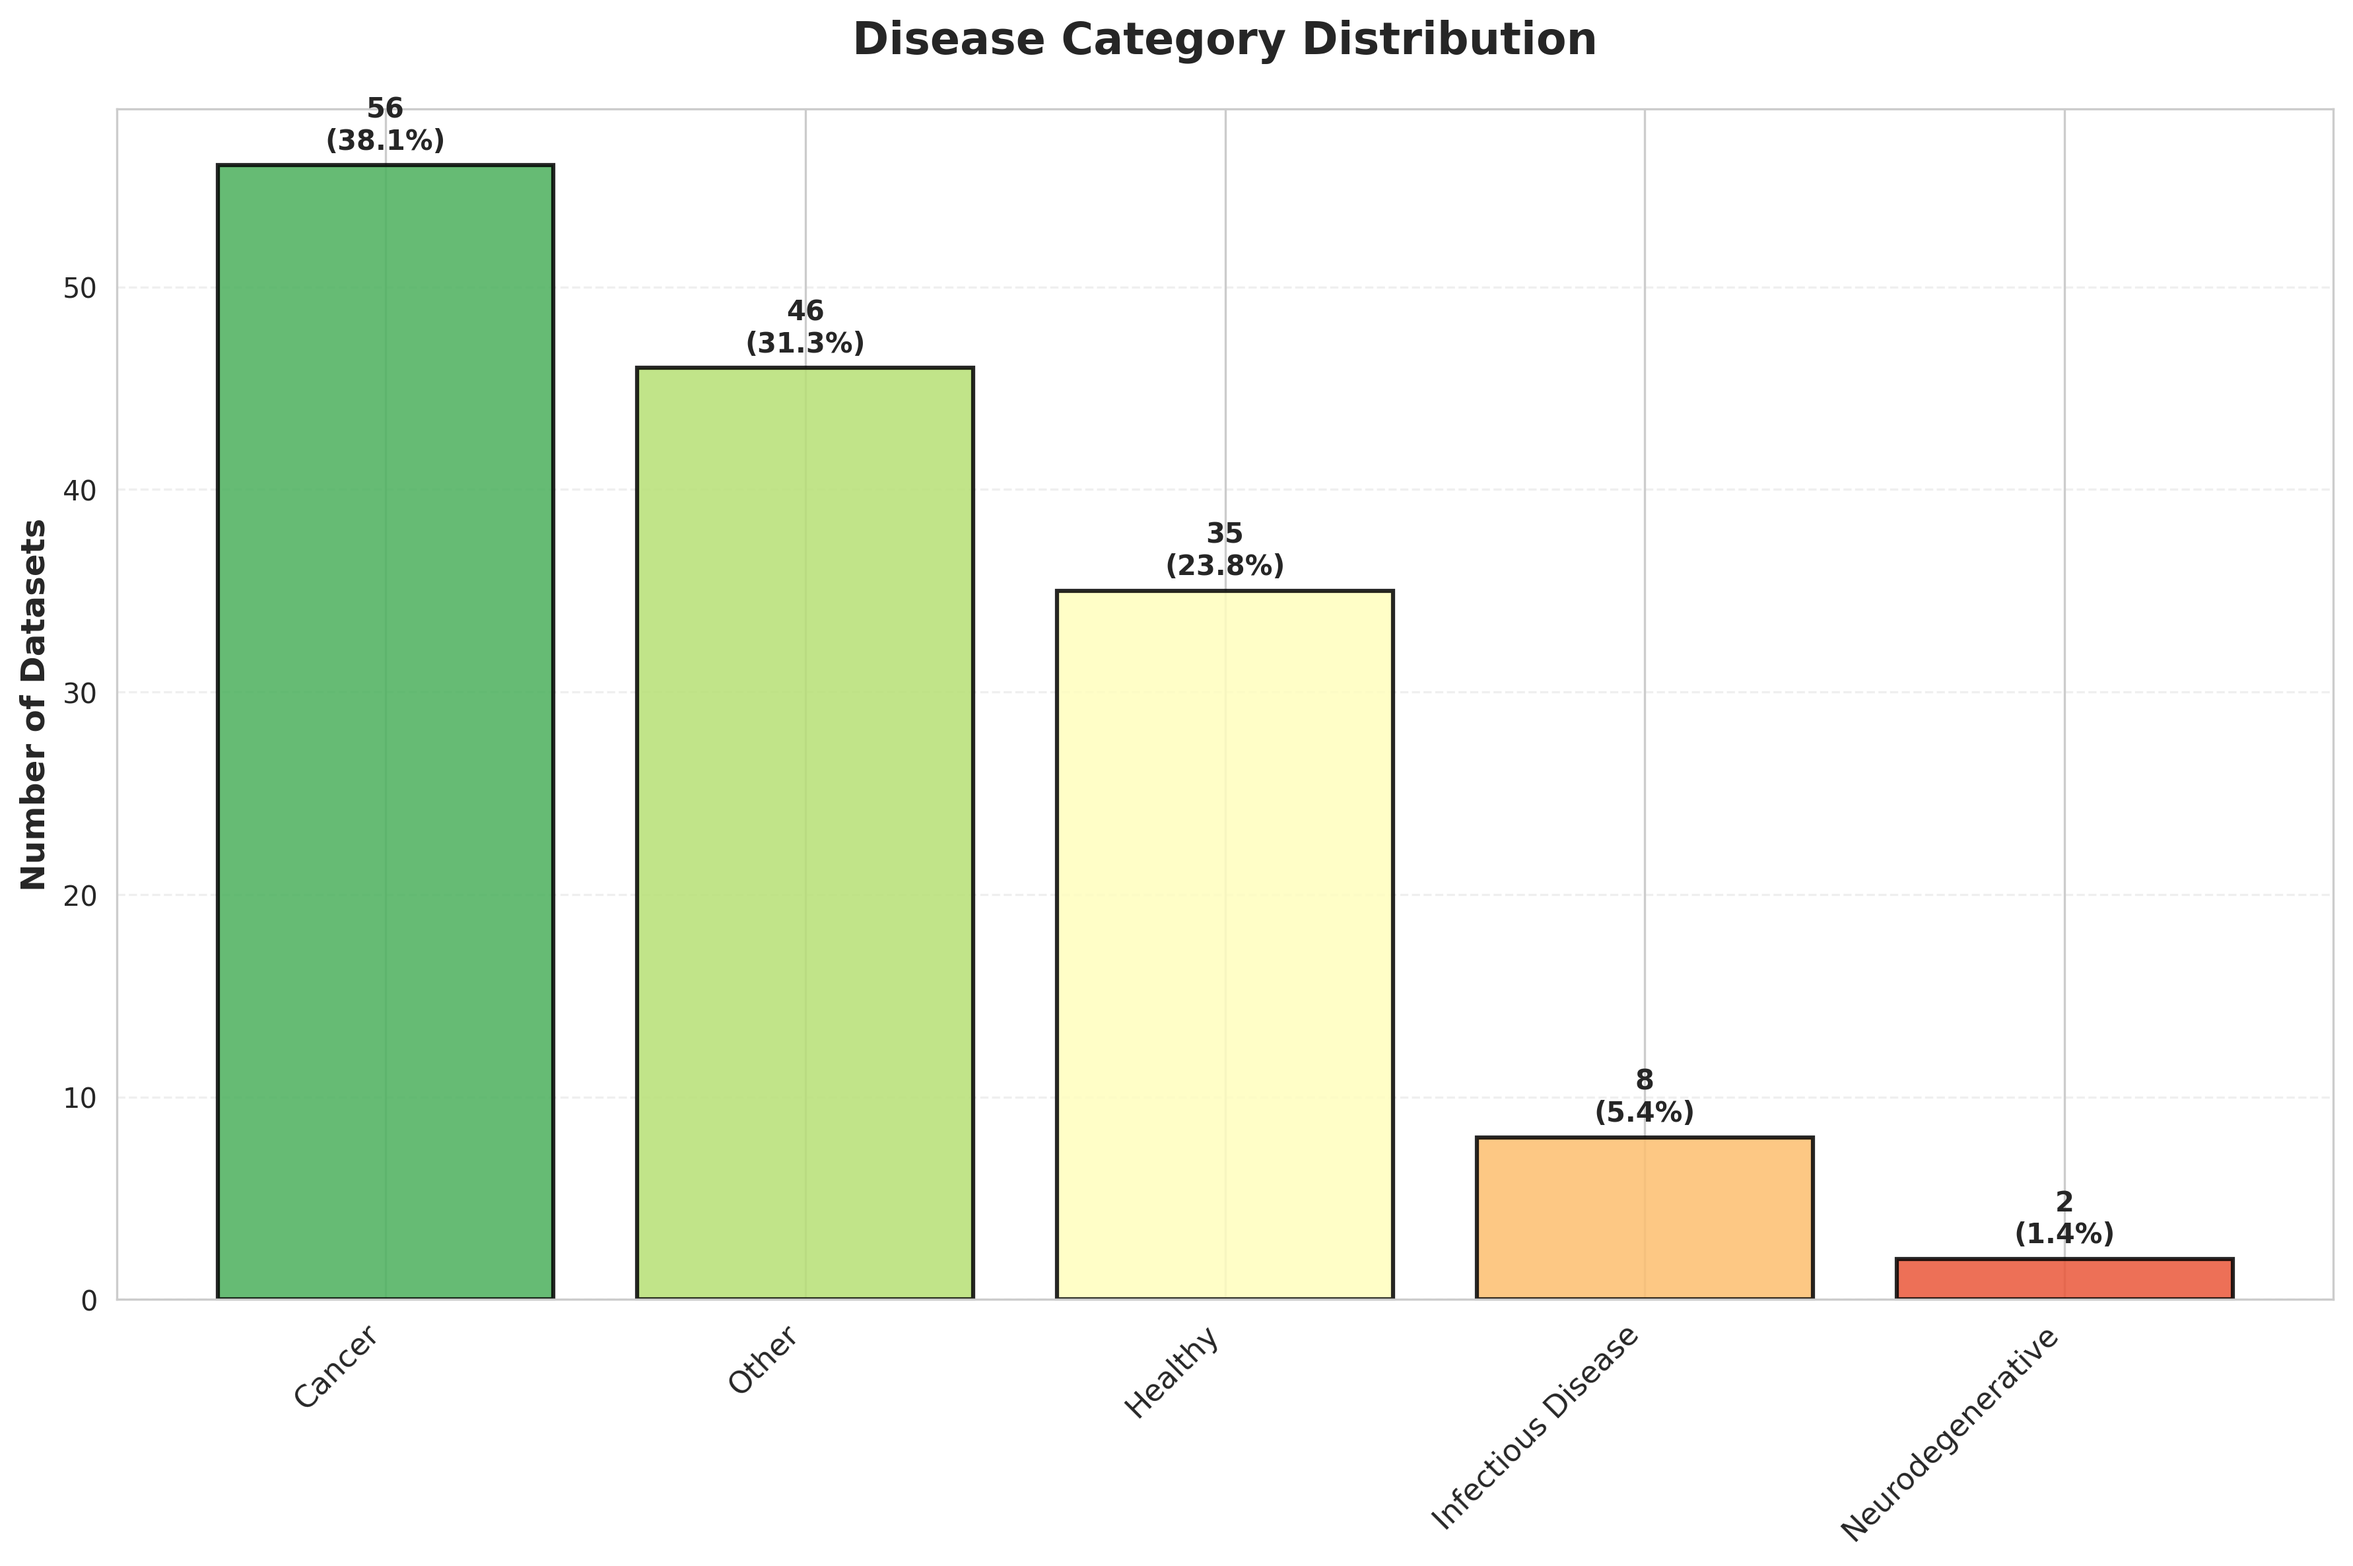
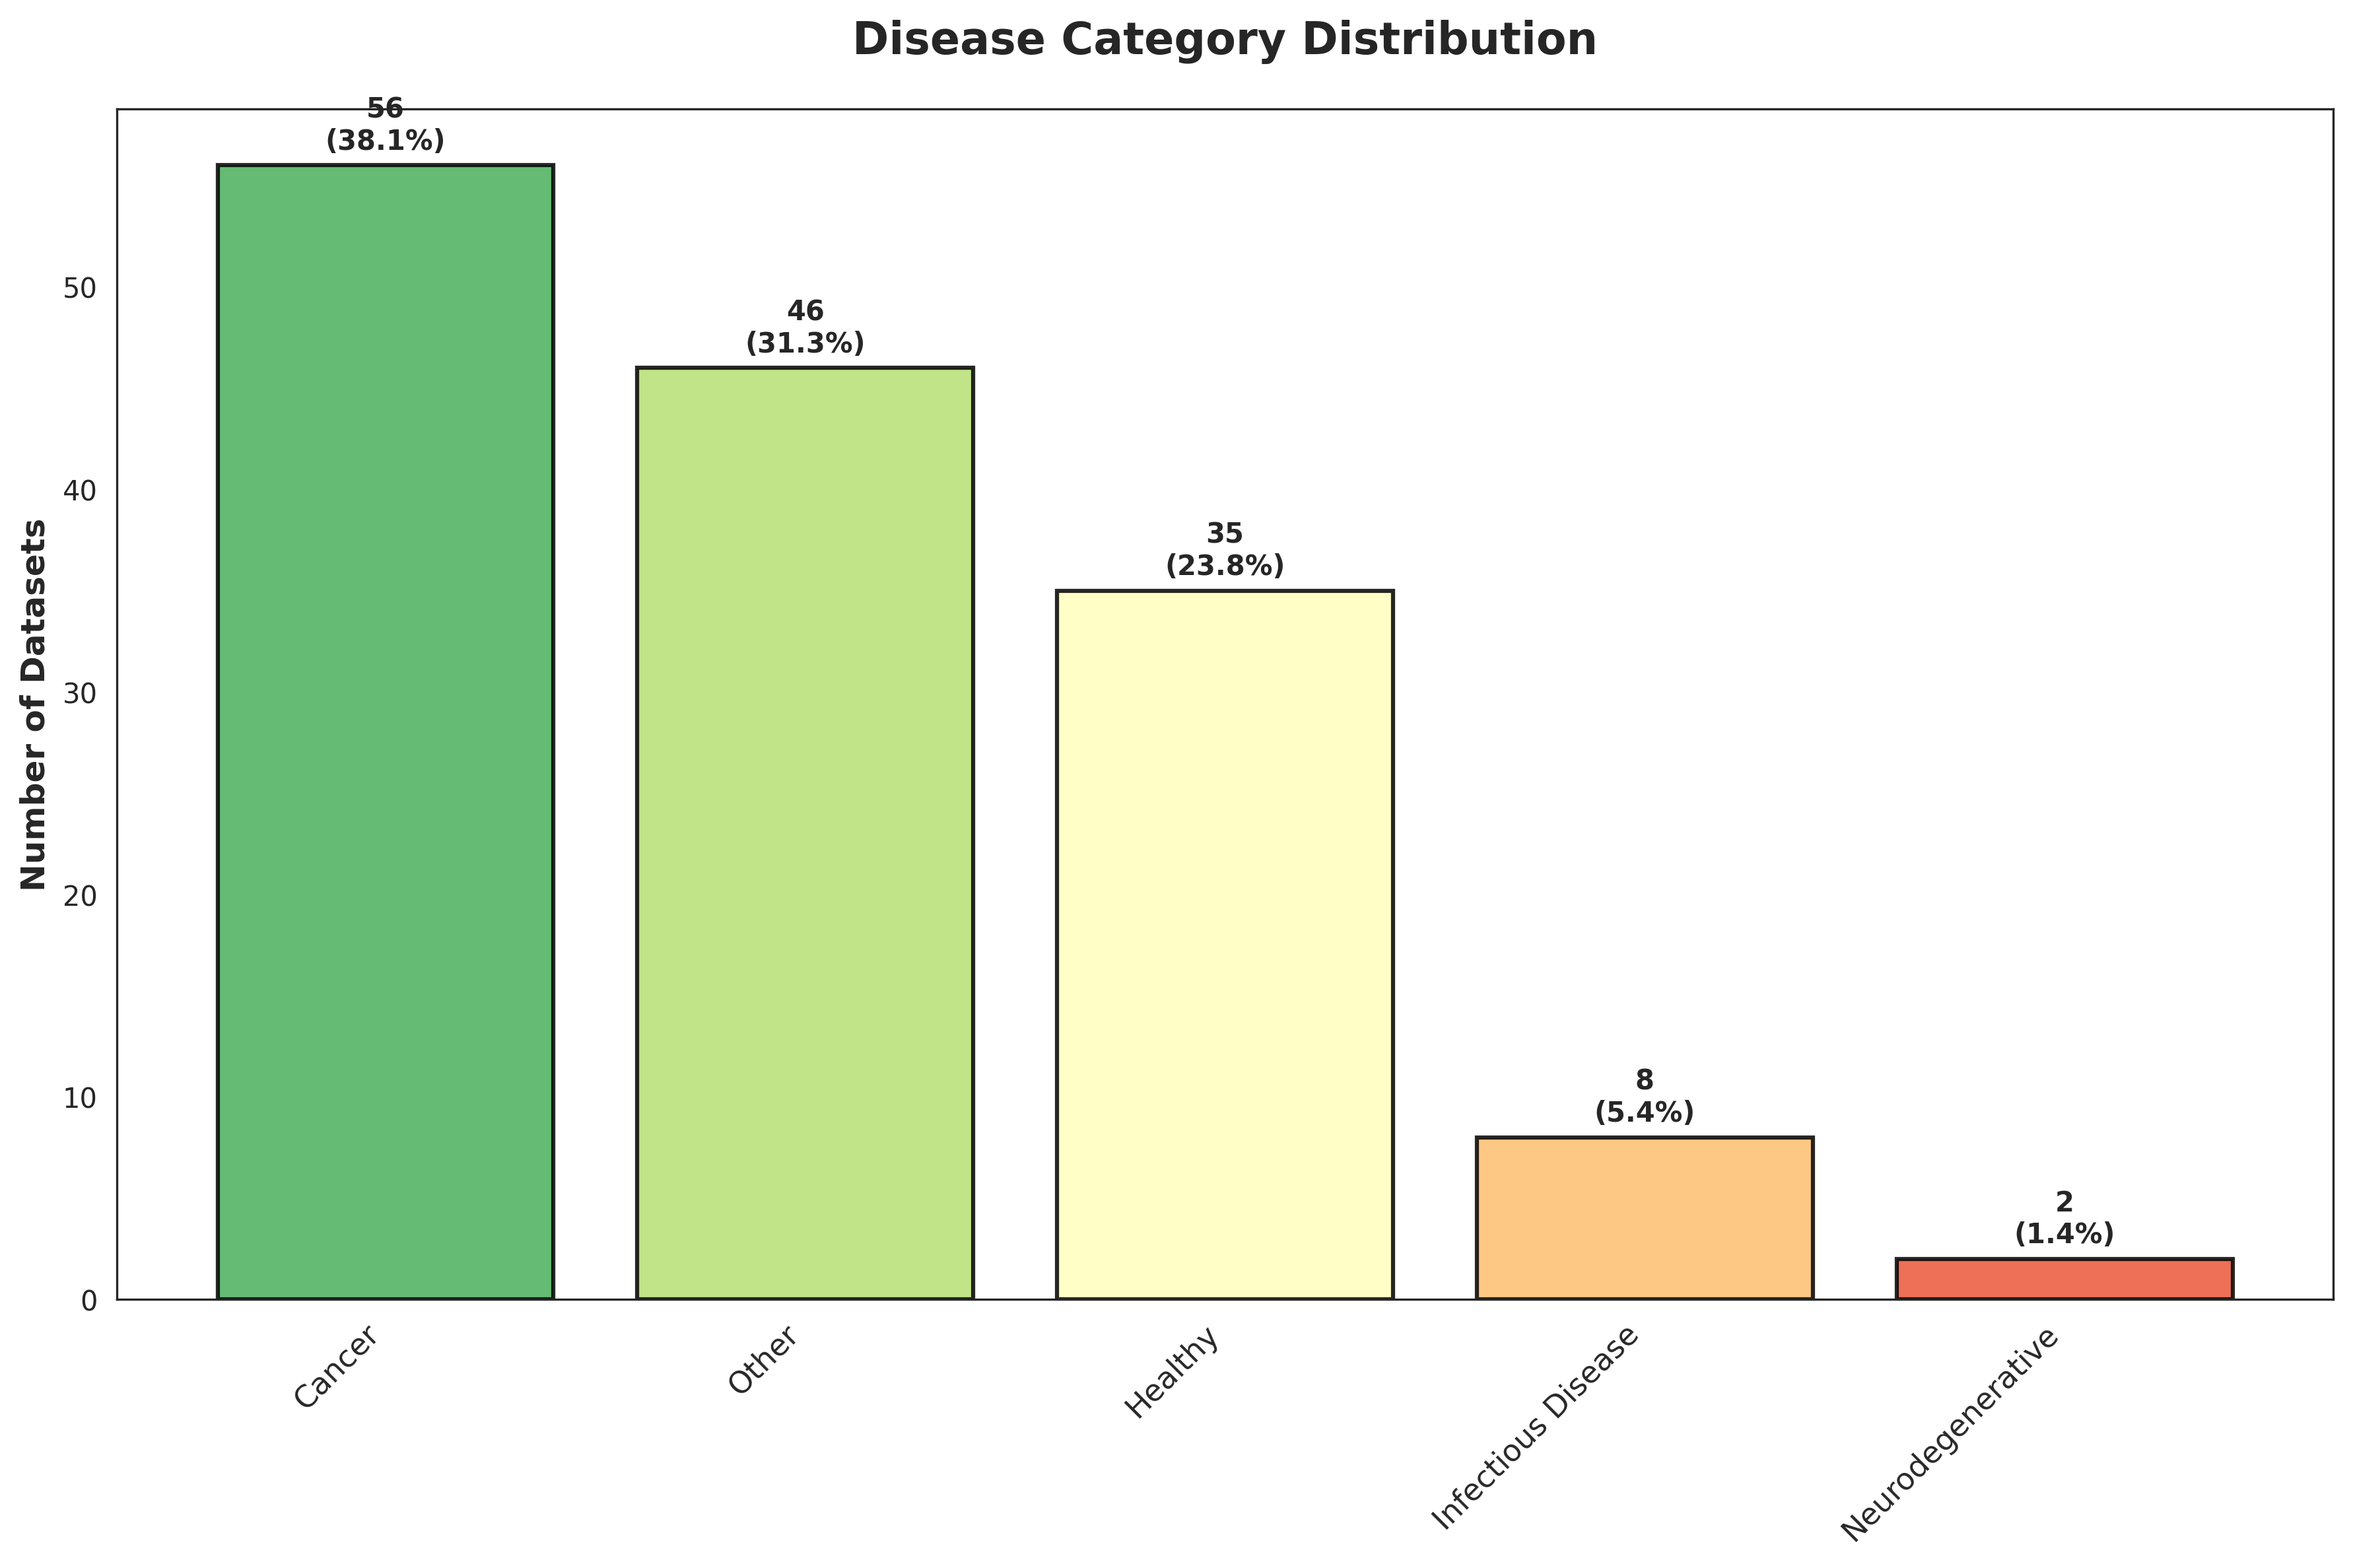
Refine visualizations: remove grid and fix encoding
Changes:
- Set clean white background without grid lines
- Remove all .grid() calls from charts
- Fix Chinese text encoding (HLA (需人工确认) -> HLA (needs confirmation))
- Update matplotlib style to "white" (no grid)

Visual improvements:
- Pure white background for professional look
- No distracting grid lines
- All text in English to avoid encoding issues
- Cleaner, more polished appearance

All 7 charts regenerated with new settings.

diff --git a/scripts/generate_visualizations.py b/scripts/generate_visualizations.py
@@ -14,10 +14,12 @@ import warnings
 
 warnings.filterwarnings('ignore')
 
-# 设置中文字体和样式
+# Set style: clean white background without grid
 plt.rcParams['font.family'] = ['DejaVu Sans', 'Arial', 'sans-serif']
 plt.rcParams['axes.unicode_minus'] = False
-sns.set_style("whitegrid")
+plt.rcParams['axes.facecolor'] = 'white'
+plt.rcParams['figure.facecolor'] = 'white'
+sns.set_style("white")  # Clean white background, no grid
 sns.set_palette("husl")
 
 # 项目路径
@@ -45,7 +47,7 @@ HLA_COLORS = {
     'HLA II': '#A23B72',
     'HLA I/II': '#06A77D',
     'Non-HLA': '#F77F00',
-    'HLA (需人工确认)': '#D62828',
+    'HLA (needs confirmation)': '#D62828',
 }
 
 
@@ -91,7 +93,6 @@ def create_hla_distribution_chart(df):
     bars = ax2.barh(hla_counts.index, hla_counts.values, color=colors_list, alpha=0.8)
     ax2.set_xlabel('Number of Datasets', fontsize=12, weight='bold')
     ax2.set_title('HLA Type Distribution\n(Count)', fontsize=14, weight='bold', pad=20)
-    ax2.grid(axis='x', alpha=0.3)
 
     # 添加数值标签
     for i, (bar, count) in enumerate(zip(bars, hla_counts.values)):
@@ -120,7 +121,6 @@ def create_disease_distribution_chart(df):
     ax.set_xticklabels(disease_counts.index, rotation=45, ha='right', fontsize=11)
     ax.set_ylabel('Number of Datasets', fontsize=12, weight='bold')
     ax.set_title('Disease Category Distribution', fontsize=16, weight='bold', pad=20)
-    ax.grid(axis='y', alpha=0.3, linestyle='--')
 
     # 添加数值标签
     for i, (bar, count) in enumerate(zip(bars, disease_counts.values)):
@@ -165,7 +165,6 @@ def create_sample_type_chart(df):
     ax.set_yticklabels(sample_counts.index, fontsize=11)
     ax.set_xlabel('Number of Datasets', fontsize=12, weight='bold')
     ax.set_title('Sample Type Distribution (Top 15)', fontsize=16, weight='bold', pad=20)
-    ax.grid(axis='x', alpha=0.3, linestyle='--')
 
     # 添加数值标签
     for i, (bar, count) in enumerate(zip(bars, sample_counts.values)):
@@ -254,7 +253,6 @@ def create_timeline_chart(df):
     ax1.set_xlabel('Year', fontsize=12, weight='bold')
     ax1.set_ylabel('Number of Datasets', fontsize=12, weight='bold')
     ax1.set_title('Dataset Publications Over Time (By Year)', fontsize=14, weight='bold', pad=15)
-    ax1.grid(True, alpha=0.3, linestyle='--')
 
     # 添加数值标签
     for x, y in zip(year_counts.index, year_counts.values):
@@ -273,7 +271,6 @@ def create_timeline_chart(df):
     ax2.set_ylabel('Number of Datasets', fontsize=12, weight='bold')
     ax2.set_title('Dataset Publications by HLA Type', fontsize=14, weight='bold', pad=15)
     ax2.legend(loc='upper left', fontsize=10)
-    ax2.grid(True, alpha=0.3, linestyle='--')
 
     plt.tight_layout()
     output_file = VIS_DIR / "5_timeline.png"
@@ -305,7 +302,6 @@ def create_repository_comparison(df):
     ax2.set_title('HLA Type Distribution by Repository', fontsize=13, weight='bold', pad=15)
     ax2.legend(title='HLA Type', bbox_to_anchor=(1.05, 1), loc='upper left', fontsize=9)
     ax2.set_xticklabels(ax2.get_xticklabels(), rotation=45, ha='right')
-    ax2.grid(axis='y', alpha=0.3)
 
     # 3. 数据质量对比
     if 'metadata_quality' in df.columns:
@@ -317,7 +313,6 @@ def create_repository_comparison(df):
         ax3.set_title('Data Quality by Repository', fontsize=13, weight='bold', pad=15)
         ax3.legend(title='Quality', fontsize=9)
         ax3.set_xticklabels(ax3.get_xticklabels(), rotation=45, ha='right')
-        ax3.grid(axis='y', alpha=0.3)
     else:
         ax3.text(0.5, 0.5, 'Quality data not available',
                 ha='center', va='center', fontsize=12, transform=ax3.transAxes)
@@ -337,7 +332,6 @@ def create_repository_comparison(df):
         ax4.set_ylabel('Percentage (%)', fontsize=11, weight='bold')
         ax4.set_title('Datasets Requiring Manual Review', fontsize=13, weight='bold', pad=15)
         ax4.set_xticklabels(review_percentage.index, rotation=45, ha='right')
-        ax4.grid(axis='y', alpha=0.3)
 
         for bar, pct in zip(bars, review_percentage.values):
             height = bar.get_height()
@@ -396,7 +390,6 @@ def create_comprehensive_dashboard(df):
     bars = ax2.bar(hla_counts.index, hla_counts.values, color=colors_list, alpha=0.85)
     ax2.set_title('HLA Type Distribution', fontsize=13, weight='bold')
     ax2.set_ylabel('Count', fontsize=10, weight='bold')
-    ax2.grid(axis='y', alpha=0.3)
     for bar, count in zip(bars, hla_counts.values):
         height = bar.get_height()
         ax2.text(bar.get_x() + bar.get_width()/2., height,
@@ -422,7 +415,6 @@ def create_comprehensive_dashboard(df):
     bars = ax4.bar(sample_main.index, sample_main.values, color=colors[:len(sample_main)], alpha=0.85)
     ax4.set_title('Sample Types (Main Categories)', fontsize=12, weight='bold')
     ax4.set_ylabel('Count', fontsize=10, weight='bold')
-    ax4.grid(axis='y', alpha=0.3)
     for bar, count in zip(bars, sample_main.values):
         height = bar.get_height()
         ax4.text(bar.get_x() + bar.get_width()/2., height,
@@ -449,7 +441,6 @@ def create_comprehensive_dashboard(df):
     ax6.set_xlabel('Year', fontsize=11, weight='bold')
     ax6.set_ylabel('Number of Datasets', fontsize=11, weight='bold')
     ax6.set_title('Dataset Publications Timeline', fontsize=13, weight='bold')
-    ax6.grid(True, alpha=0.3)
 
     # 总标题
     fig.suptitle('HLA Metadata Collection - Comprehensive Dashboard',
